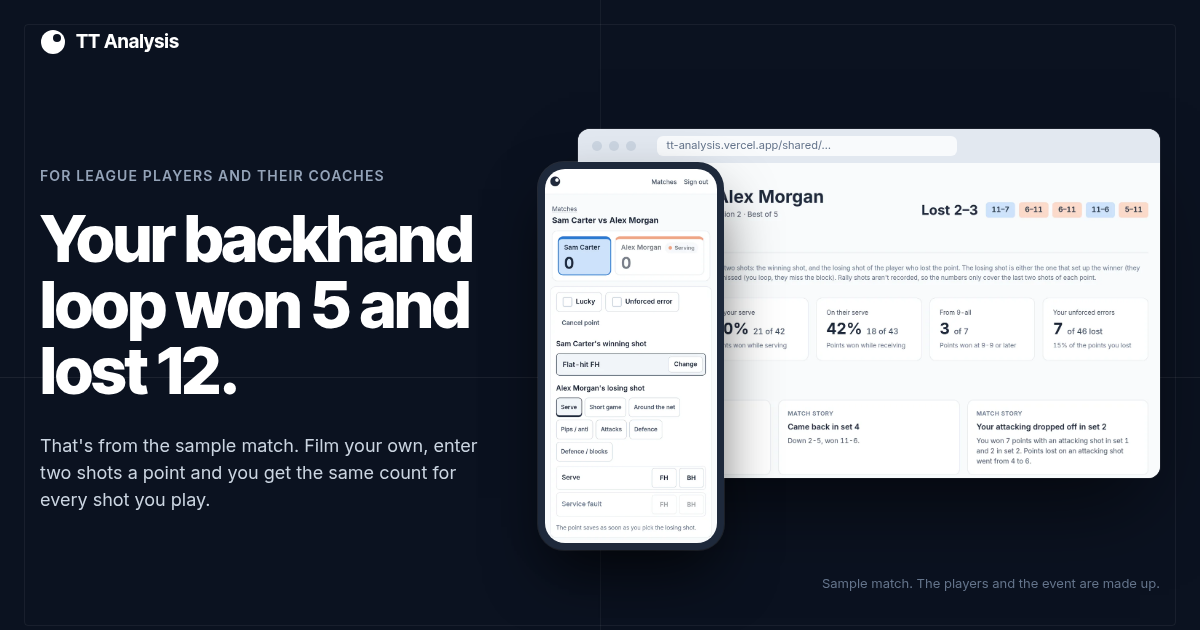
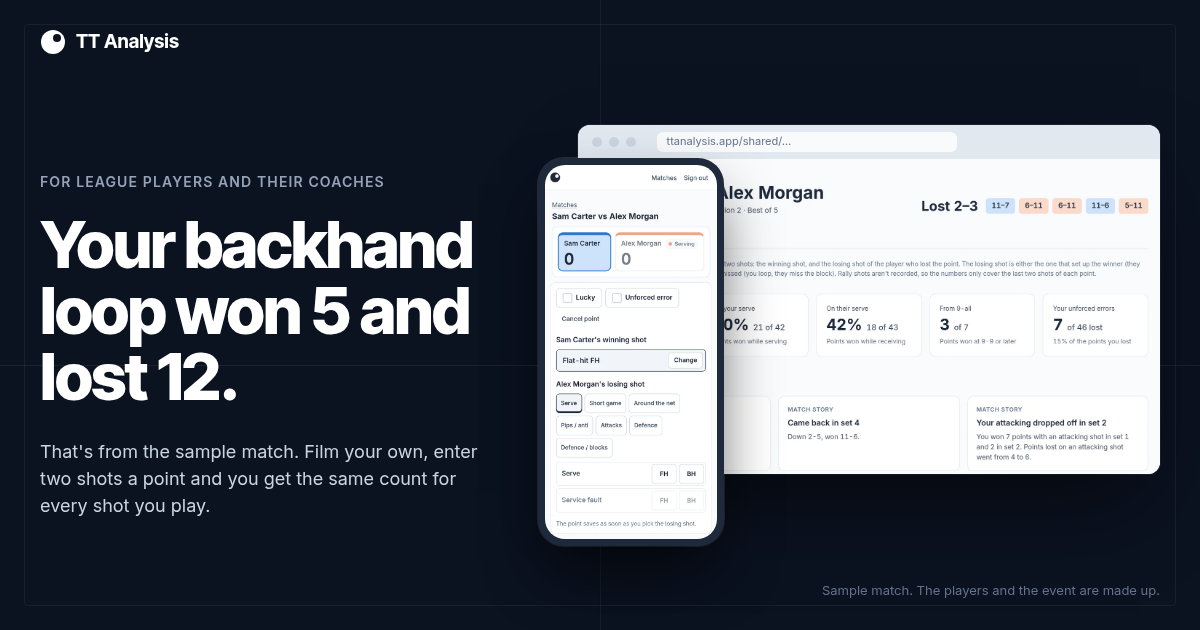
Move the app to ttanalysis.app and redirect the old Vercel address
Claude-Session: https://claude.ai/code/session_01RePfWJ19dXV1N34G9G6LSo

diff --git a/index.html b/index.html
@@ -10,8 +10,8 @@
     <meta property="og:site_name" content="TT Analysis" />
     <meta property="og:title" content="TT Analysis: table tennis match analysis from video" />
     <meta property="og:description" content="Film your match, enter two shots a point, and see which shots won and lost it." />
-    <meta property="og:url" content="https://tt-analysis.vercel.app/" />
-    <meta property="og:image" content="https://tt-analysis.vercel.app/og-image.png" />
+    <meta property="og:url" content="https://ttanalysis.app/" />
+    <meta property="og:image" content="https://ttanalysis.app/og-image.png" />
     <meta property="og:image:width" content="1200" />
     <meta property="og:image:height" content="630" />
     <meta name="twitter:card" content="summary_large_image" />

diff --git a/src/pages/HomeBrochure.tsx b/src/pages/HomeBrochure.tsx
@@ -93,7 +93,7 @@ const HomeBrochure = () => (
           <div className="bro-browser">
             <div className="bro-browser-bar" aria-hidden="true">
               <span className="dot" /><span className="dot" /><span className="dot" />
-              <span className="url">tt-analysis.vercel.app/shared/…</span>
+              <span className="url">ttanalysis.app/shared/…</span>
             </div>
             <img className="bro-shot" src={analysisTop} width={1600} height={867}
               alt="Analysis page for a sample match. Sam Carter lost 2-3 to Alex Morgan, winning 39 of 85 points. Under the headline numbers are the What decided it cards." />

diff --git a/docs/NEXT_STEPS.md b/docs/NEXT_STEPS.md
@@ -6,7 +6,7 @@ Handover notes for picking this work up in a fresh session. Section 1 is the mos
 
 ## Where things stand
 
-Everything below is merged to `main`, migrated on production Supabase (project `ztozinueuucrdlfwusen`) and deployed to https://tt-analysis.vercel.app.
+Everything below is merged to `main`, migrated on production Supabase (project `ztozinueuucrdlfwusen`) and deployed to https://ttanalysis.app (bought on Cloudflare on 2026-11-25). The old https://tt-analysis.vercel.app redirects there from `vercel.json`, so old share links still work.
 
 Done on 2026-11-24, in order:
 
@@ -28,7 +28,7 @@ Done on 2026-11-25:
 
 Next piece of work to design: **shot balance on the analysis page** (section 7), showing which shots a player leaned on or barely used.
 
-The user has checked the admin panel, the `/debug` removal and the AI summaries on production, and used the tracker for a real match with no bugs found. Not yet checked on production by a person: the password reset email. The reset link also needs `https://tt-analysis.vercel.app/reset-password` in the Supabase dashboard's allowed redirect URLs.
+The user has checked the admin panel, the `/debug` removal and the AI summaries on production, and used the tracker for a real match with no bugs found. Not yet checked on production by a person: the password reset email. The reset link also needs `https://ttanalysis.app/**` in the Supabase dashboard's allowed redirect URLs, and the Site URL set to `https://ttanalysis.app`.
 
 ## 1. Signed-out homepage brochure and wording sweep (done)
 
@@ -39,7 +39,7 @@ Built and shipped on 2026-11-25 from this design canvas: https://claude.ai/artif
 - **Copy:** the first draft read as machine-written. It was rewritten from a brief built on research into UK sports product sites, one agent per section, then edited with the user. The brief and research are not in the repo; the lessons are: name real shots, sets and scores from the sample match, say plainly that only two shots a point are entered, and don't tell people how to film beyond "any phone will do". Playback at 1.25x or 1.5x is the user's own tip. The headline is "Your backhand loop won 5 and lost 12." Both sign-up buttons say "Create an account".
 - **Facts:** constants at the top of `HomeBrochure.tsx`, answered by the user on 2026-11-25. Entry time: a match filmed uncut runs about 20 minutes, around 15 to enter at 1.5x, and a trimmed match often half that. The coach's summary is "By invitation". It's free with no payment to set up. There's no contact link (`CONTACT` stays `null`, so that line stays hidden).
 - **Sign-up:** "Create an account" links to `/auth?mode=signup`, which opens the sign-up form.
-- **Link previews:** `index.html` has a title, description and Open Graph tags. `public/og-image.png` is a 1200x630 shot of the hero.
+- **Link previews:** `index.html` has a title, description and Open Graph tags. `public/og-image.png` is a 1200x630 shot of the hero, with the nav links, buttons and hero note hidden and the sample-match caption pinned bottom right. It was regenerated on 2026-11-25 for the new domain by injecting that CSS into a copy of `dist/index.html` and screenshotting it at 1200x630 with headless Chromium.
 - **Signed-in users** go straight from `/` to `/matches`. The old signed-in home was removed.
 - **Prerendering:** `npm run build` also builds `src/prerender.tsx` for SSR and runs `scripts/prerender.mjs`, which writes the brochure's HTML into `dist/index.html`. That file is only served for `/`. `dist/app.html` is the same page with an empty root, and `vercel.json` rewrites every other route to it, so no other page flashes the brochure. An inline script in the head hides the prerendered brochure from browsers holding a session (`html.has-session`), and `main.tsx` removes the class before React renders. `Home` keeps the brochure on screen while auth loads unless a session is stored (`src/lib/storedSession.ts`). React replaces the prerendered HTML rather than hydrating it.
 - **Checked:** at 1440px and 390px wide, with no sideways scroll and no console errors, and on production after the deploy.
